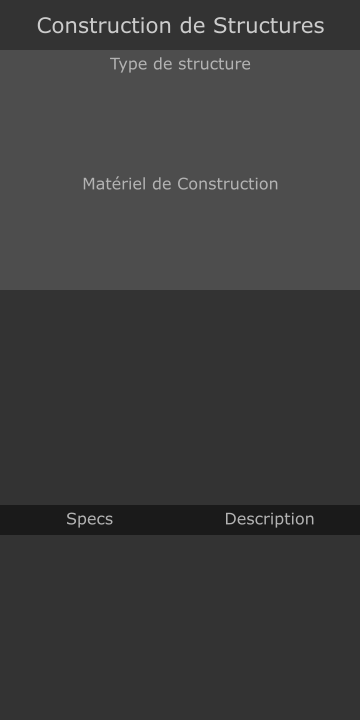
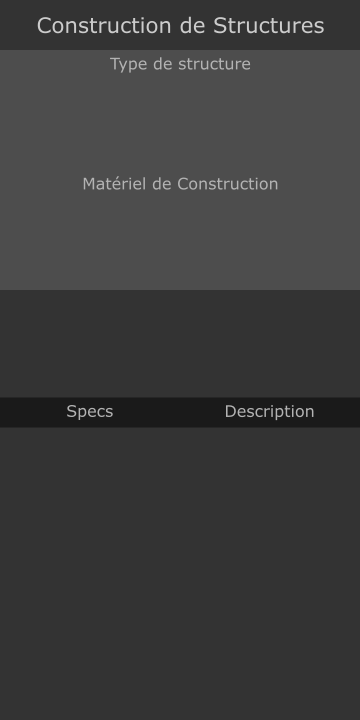
Add, Modify - Les classes sideWindow - rajout de bouton build et cancel

Changed region(s): [[0.0, 0.7028, 1.0, 0.7639], [0.0, 0.55, 1.0, 0.6111]]

diff --git a/source/WireWindow.h b/source/WireWindow.h
@@ -21,6 +21,13 @@ public:
         modelsSideWindow["1ArgentIcon"] = new CheckBox (1160, 90, 0, 50, 50, ResourceManager::getInstance()->getTexture("ChoixNonAppuyer"), ResourceManager::getInstance()->getTexture("ChoixAppuyer"));
         modelsSideWindow["1ArgentIcon"]->onClick = [this] () {};
         modelsSideWindow["1ArgentLabel"] = new Label(ResourceManager::getInstance()->getResource<Font*>("font - arial12")->getFont(), {128,128,128,0}, "Argent", 1160, 150, 0, 50, 20);
+
+        //Building Button
+        modelsSideWindow["1BuildingButtonWire"] = new Button (930, 580, 0, 340, 60, ResourceManager::getInstance()->getTexture("BuildButton"), ResourceManager::getInstance()->getTexture("BuildButtonOver"));
+        modelsSideWindow["1BuildingButtonWire"]->onClick = [this] () {};
+
+        modelsSideWindow["1CancelButtonWire"] = new Button (930, 650, 0, 340, 60, ResourceManager::getInstance()->getTexture("CancelButton"), ResourceManager::getInstance()->getTexture("CancelButtonOver"));
+        modelsSideWindow["1CancelButtonWire"]->onClick = [this] () {};
     }
 
     void subscribeAll(std::map<unsigned int, Observable<SDL_Event*>*>& observables){

diff --git a/source/StructureWindow.h b/source/StructureWindow.h
@@ -54,6 +54,13 @@ public:
         modelsSideWindow["1SIMTiumIcon"]->onClick = [this] () {};
         modelsSideWindow["1SIMTiumLabel"] = new Label(ResourceManager::getInstance()->getResource<Font*>("font - arial12")->getFont(), {128,128,128,0}, "SIMTium", 1220, 265, 0, 50, 20);
 
+
+        //Building Button
+        modelsSideWindow["1BuildingButtonStructure"] = new Button (930, 580, 0, 340, 60, ResourceManager::getInstance()->getTexture("BuildButton"), ResourceManager::getInstance()->getTexture("BuildButtonOver"));
+        modelsSideWindow["1BuildingButtonStructure"]->onClick = [this] () {};
+
+        modelsSideWindow["1CancelButtonStructure"] = new Button (930, 650, 0, 340, 60, ResourceManager::getInstance()->getTexture("CancelButton"), ResourceManager::getInstance()->getTexture("CancelButtonOver"));
+        modelsSideWindow["1CancelButtonStructure"]->onClick = [this] () {};
     }
 
 

diff --git a/source/MachineWindow.h b/source/MachineWindow.h
@@ -8,6 +8,13 @@ public:
 
     MachineWindow(){
         modelsSideWindow["SideMenuMachine"] = new Image(920, 0, 0, 360, 720, ResourceManager::getInstance()->getTexture("MachineWindow"));
+
+        //Building Button
+        modelsSideWindow["1BuildingButtonMachine"] = new Button (930, 580, 0, 340, 60, ResourceManager::getInstance()->getTexture("BuildButton"), ResourceManager::getInstance()->getTexture("BuildButtonOver"));
+        modelsSideWindow["1BuildingButtonMachine"]->onClick = [this] () {};
+
+        modelsSideWindow["1CancelButtonMachine"] = new Button (930, 650, 0, 340, 60, ResourceManager::getInstance()->getTexture("CancelButton"), ResourceManager::getInstance()->getTexture("CancelButtonOver"));
+        modelsSideWindow["1CancelButtonMachine"]->onClick = [this] () {};
     }
 
     void subscribeAll(std::map<unsigned int, Observable<SDL_Event*>*>& observables){

diff --git a/source/ProjetFinal.h b/source/ProjetFinal.h
@@ -74,6 +74,11 @@ public:
         getTextureID("../../images/SideMenuMachine.png","MachineWindow");
         getTextureID("../../images/SideMenuInformation.png","InformationWindow");
         getTextureID("../../images/SideMenuCable.png","CableWindow");
+        getTextureID("../../images/BuildButton.png","BuildButton");
+        getTextureID("../../images/BuildButtonOver.png","BuildButtonOver");
+        getTextureID("../../images/CancelButton.png","CancelButton");
+        getTextureID("../../images/CancelButtonOver.png","CancelButtonOver");
+
 
         //Textures world
         getTextureID("../../images/skysphere_day.png", "daysky");
